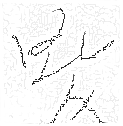
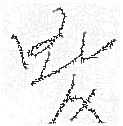
Szakdoga 3 and 4 and more

diff --git a/Pixel_superiority_index/szakdoga4.py b/Pixel_superiority_index/szakdoga4.py
@@ -15,7 +15,7 @@ print("                   __/ |                                        ")
 print("                  |___/                                         ", bcolors.ENDC, '\n')
 
 # Beolvasás szürkeárnyalatos képként
-picture = 'hanzo'
+picture = 'fingerprintmini'
 
 img = imreadgray('../Common/' + picture + '.png')
 img2 = imreadgray('../Common/' + picture + '.png')
@@ -97,6 +97,13 @@ for i in range(3):
 
 print(bcolors.WARN, 'Initial skeleton', bcolors.ENDC)
 print(bcolors.ERR, 'Deleted:', deleted, bcolors.ENDC)
+print(img2)
+
+for row in range(1, size[0] - 1):
+    for col in range(1, size[1] - 1):
+        if psi[row][col] == 5 and (img2[row + 1][col] >= 100 or img2[row - 1][col] >= 100 or img2[row][col + 1] >= 100 or img2[row][col - 1] >= 100):
+            img2[row][col] = img[row][col]
+
 print(img2)
 
 # Converting the values back to normal

diff --git a/DyerRosenfeld_1977/szakdoga1.py b/DyerRosenfeld_1977/szakdoga1.py
@@ -20,7 +20,7 @@ print("          __/ |                                                       ")
 print("         |___/                                                        ", bcolors.ENDC)
 
 # Reading in the pictures as a gray picture
-picture = 'chromosome'
+picture = 'fingerprintmini'
 
 img = imreadgray('../Common/' + picture + '.png')
 img2 = imreadgray('../Common/' + picture + '.png')

diff --git a/SalariSiy1984/szakdoga3.py b/SalariSiy1984/szakdoga3.py
@@ -20,7 +20,7 @@ print("                                              __/ |")
 print("                                             |___/ ", bcolors.ENDC)
 
 # Reading in the pictures as a gray picture
-picture = 'chromosomeee'
+picture = 'fingerprintmini'
 
 img = imreadgray('../Common/' + picture + '.png')
 img2 = imreadgray('../Common/' + picture + '.png')
